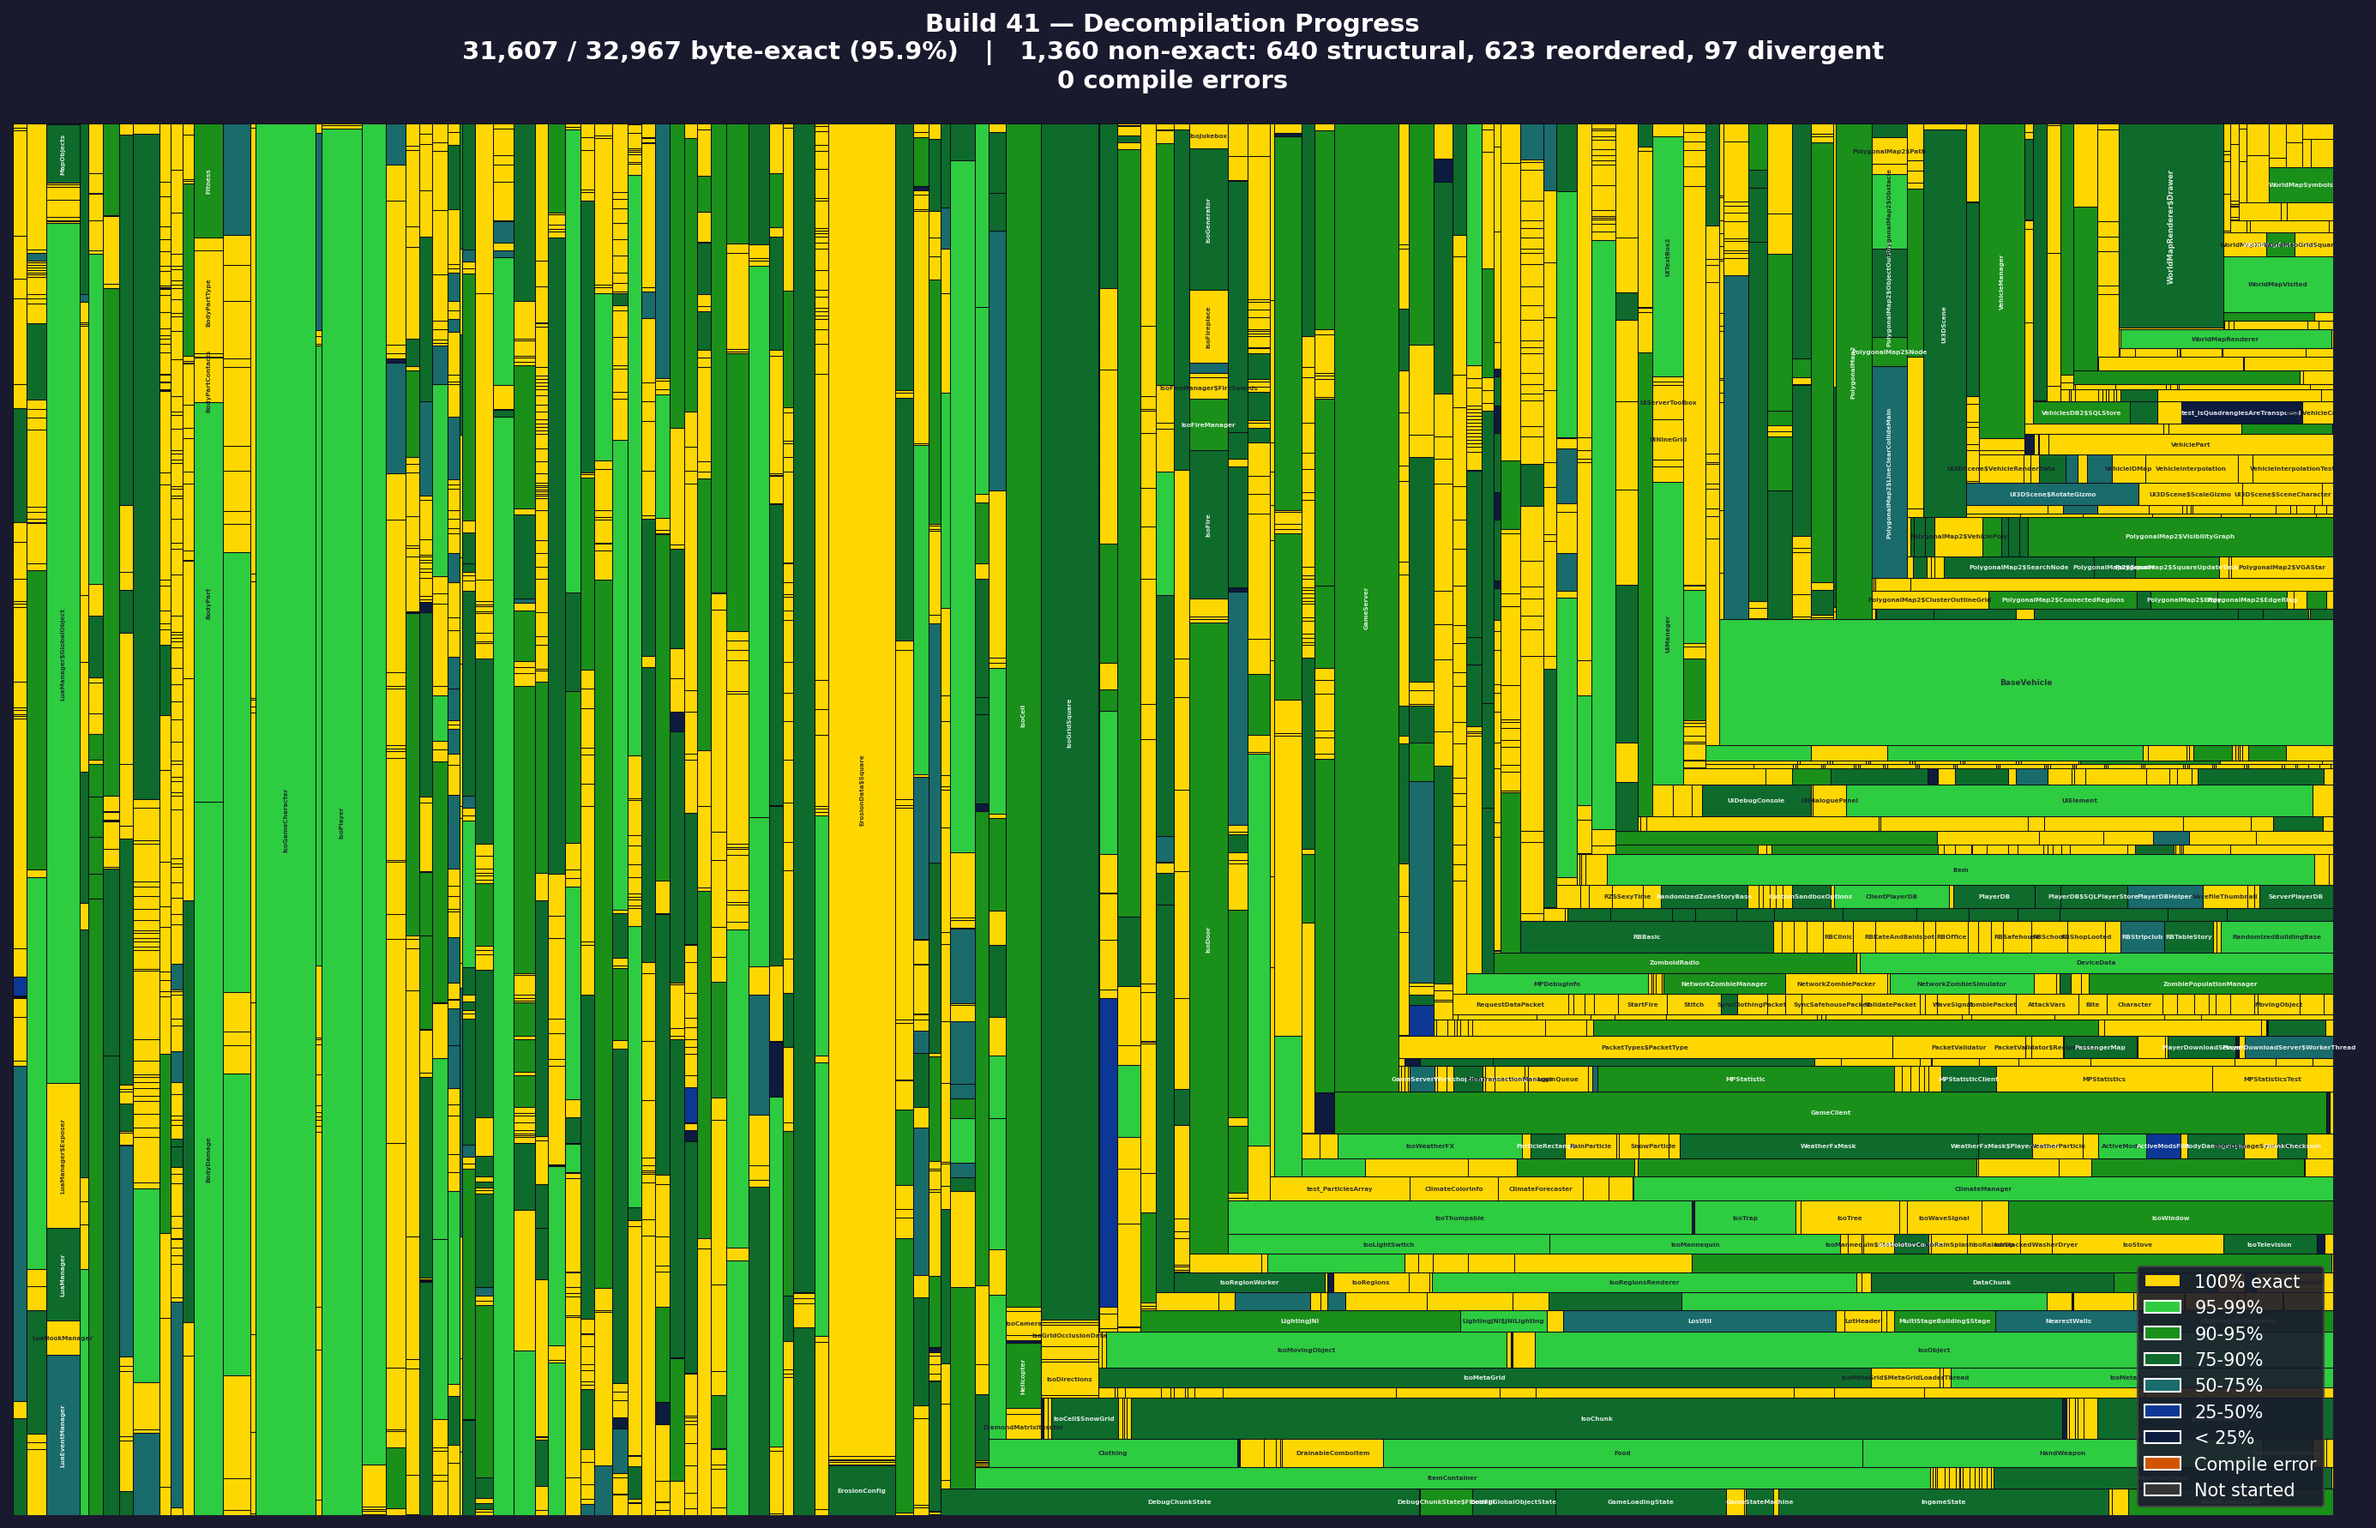
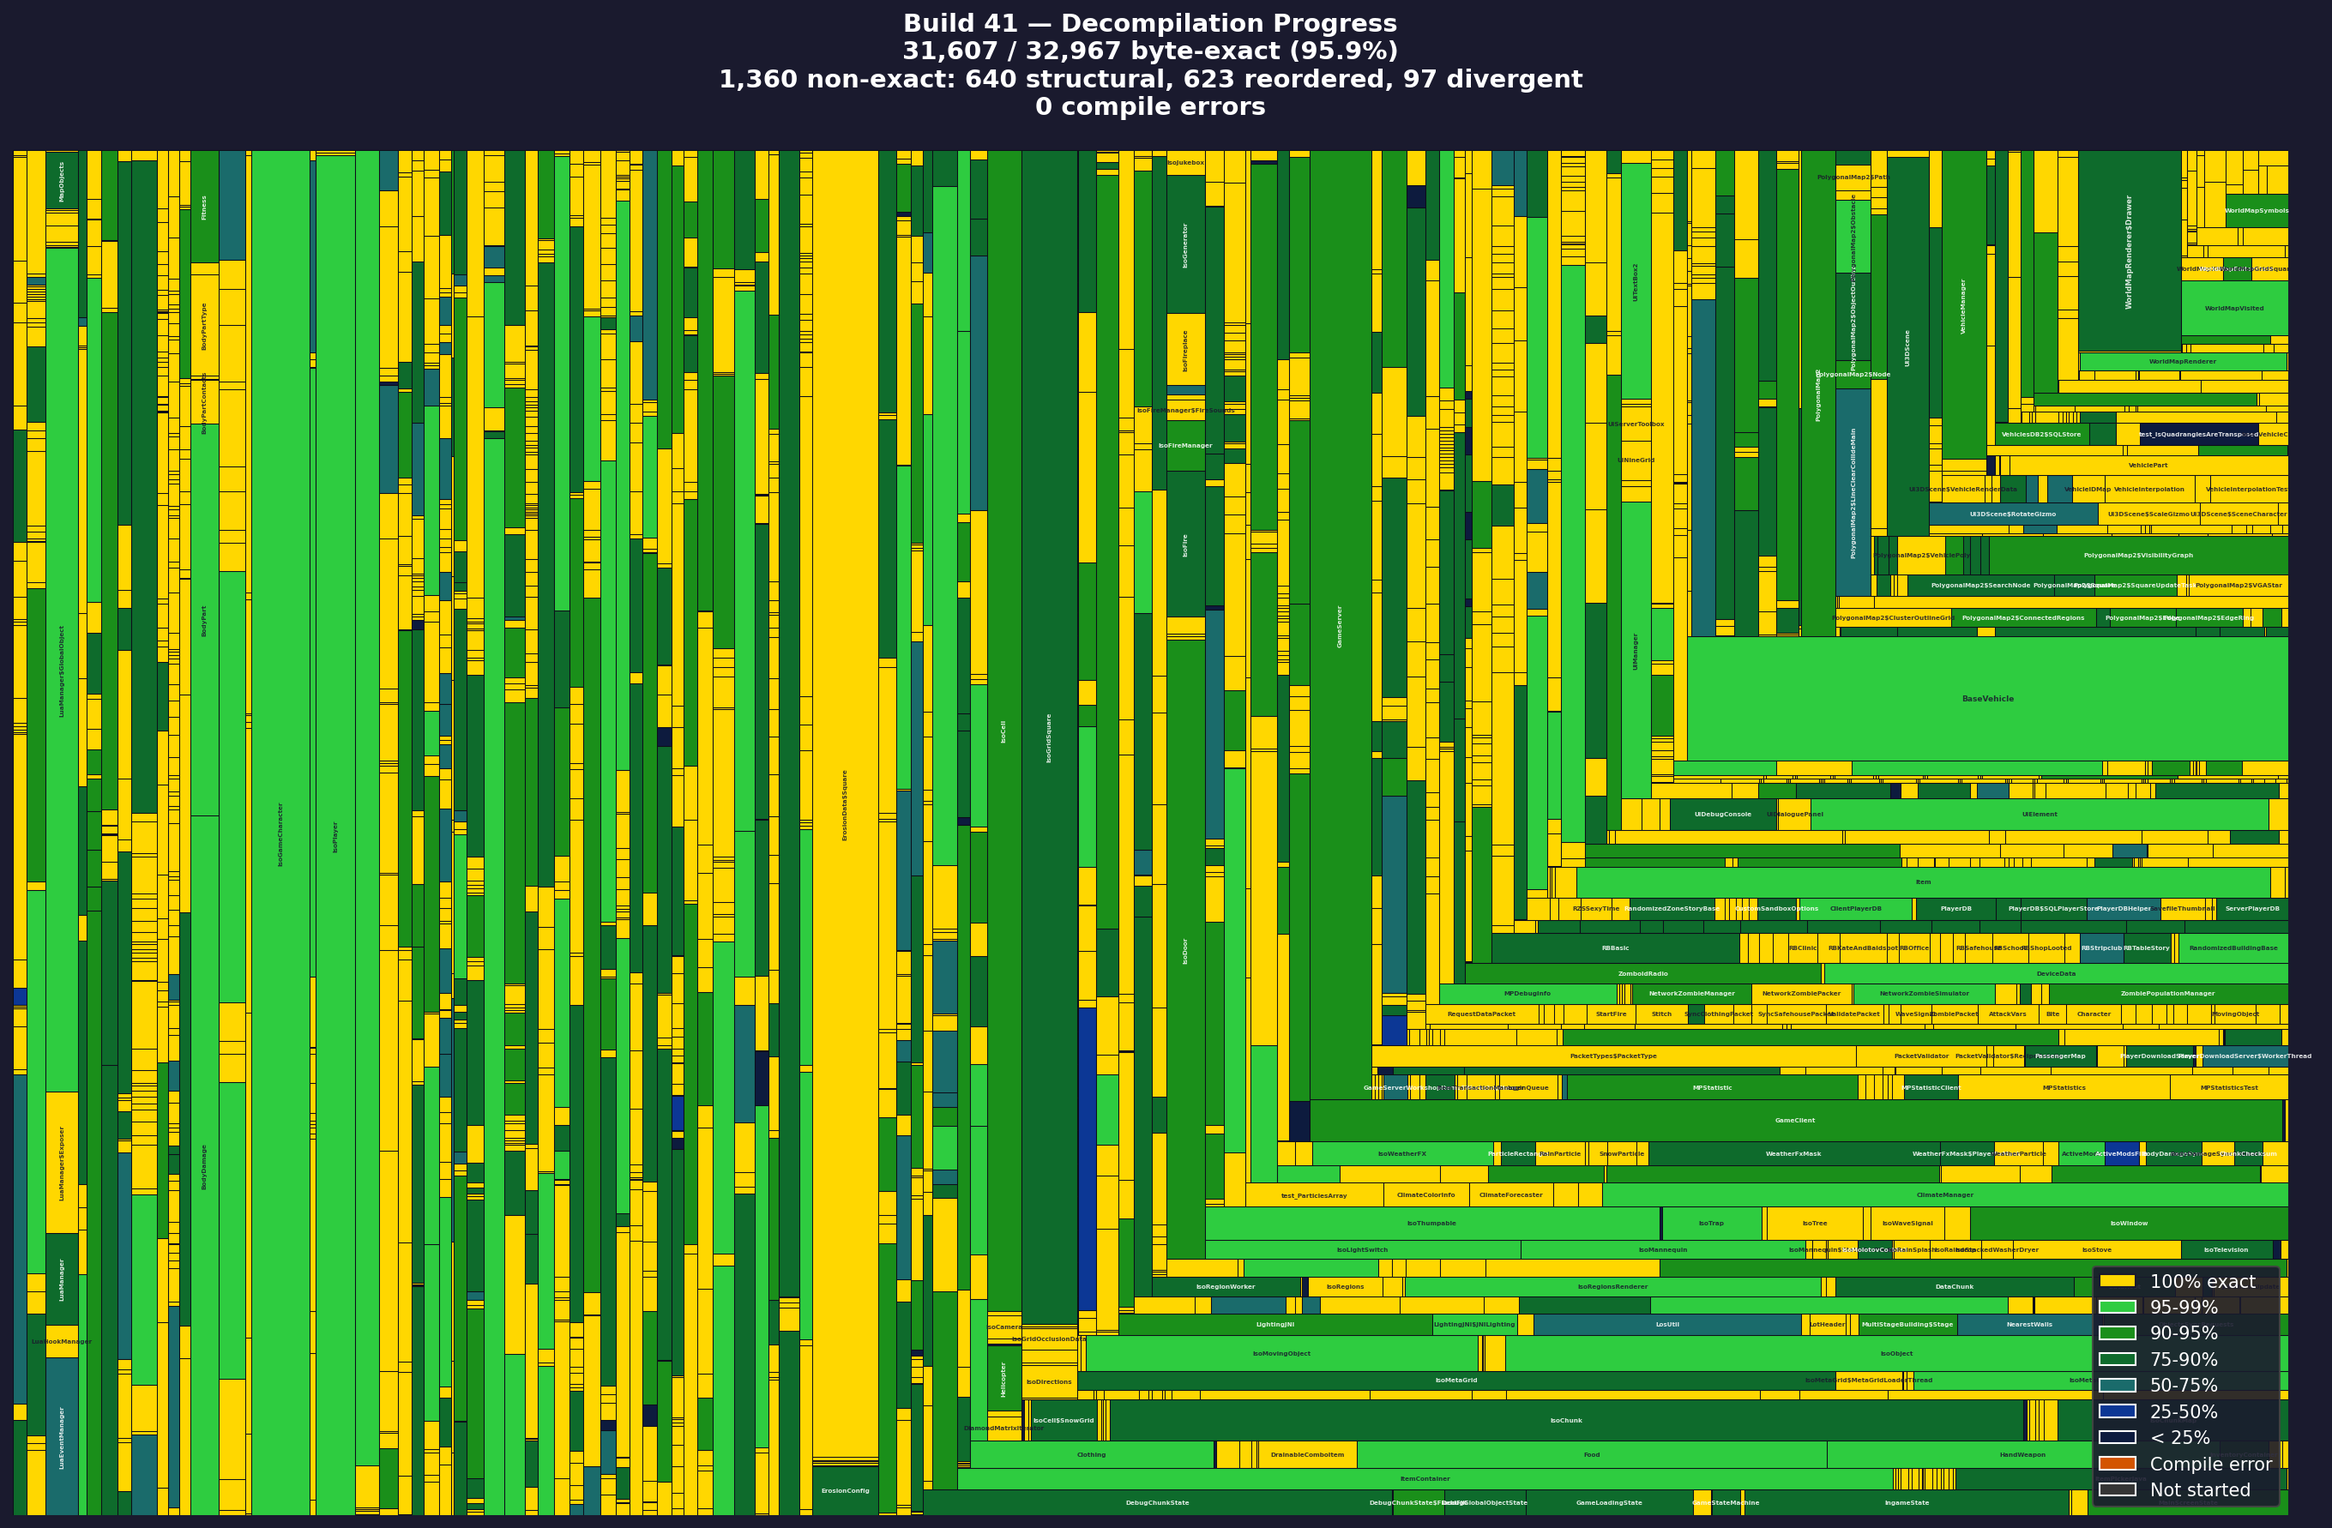
refactor: separate byte-exact and non-exact onto own lines

diff --git a/scripts/generate_progress_image.py b/scripts/generate_progress_image.py
@@ -156,7 +156,7 @@ def main():
     non_exact = total_methods - exact_methods
     line2 = f"{exact_methods:,} / {total_methods:,} byte-exact ({exact_pct:.1f}%)"
     if non_exact > 0:
-        line2 += f"   |   {non_exact:,} non-exact: {', '.join(parts)}"
+        line2 += f"\n{non_exact:,} non-exact: {', '.join(parts)}"
 
     # Status line: compile errors and missing classes
     status_parts = []
